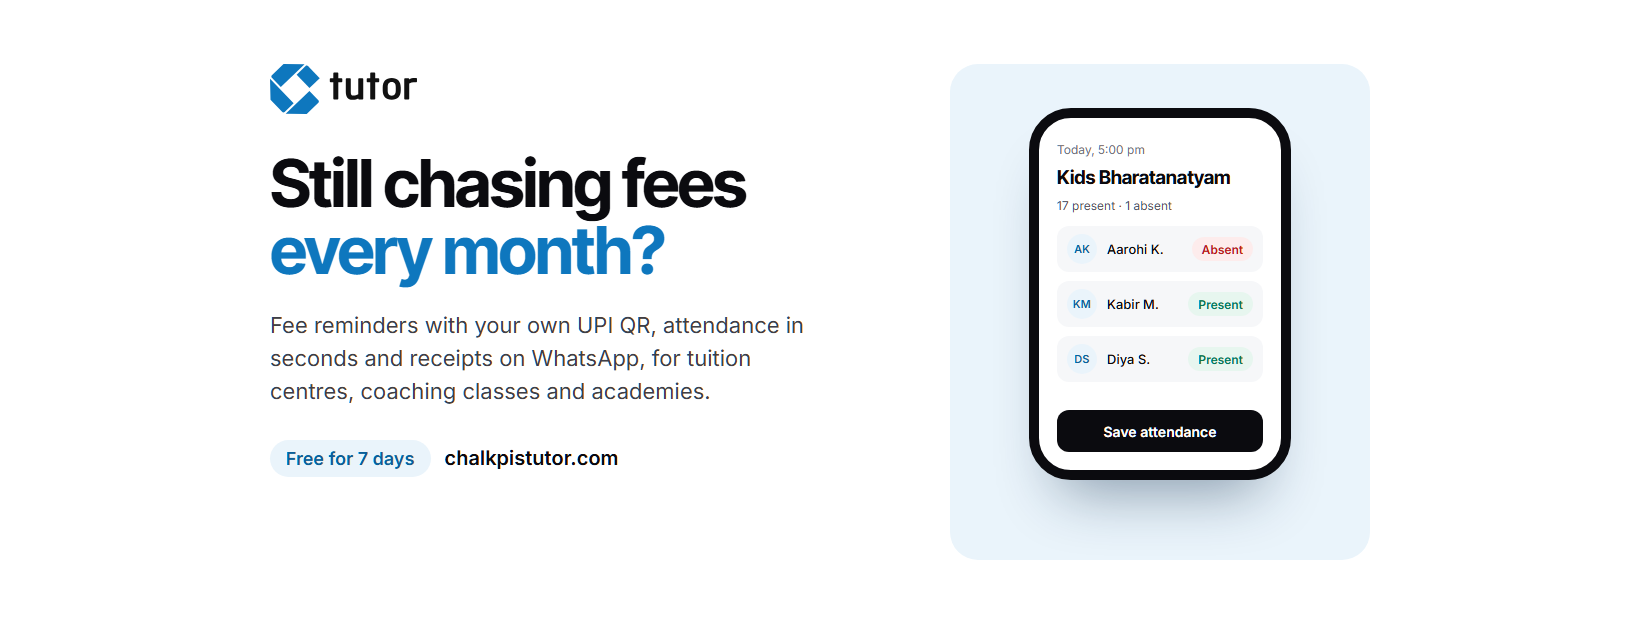
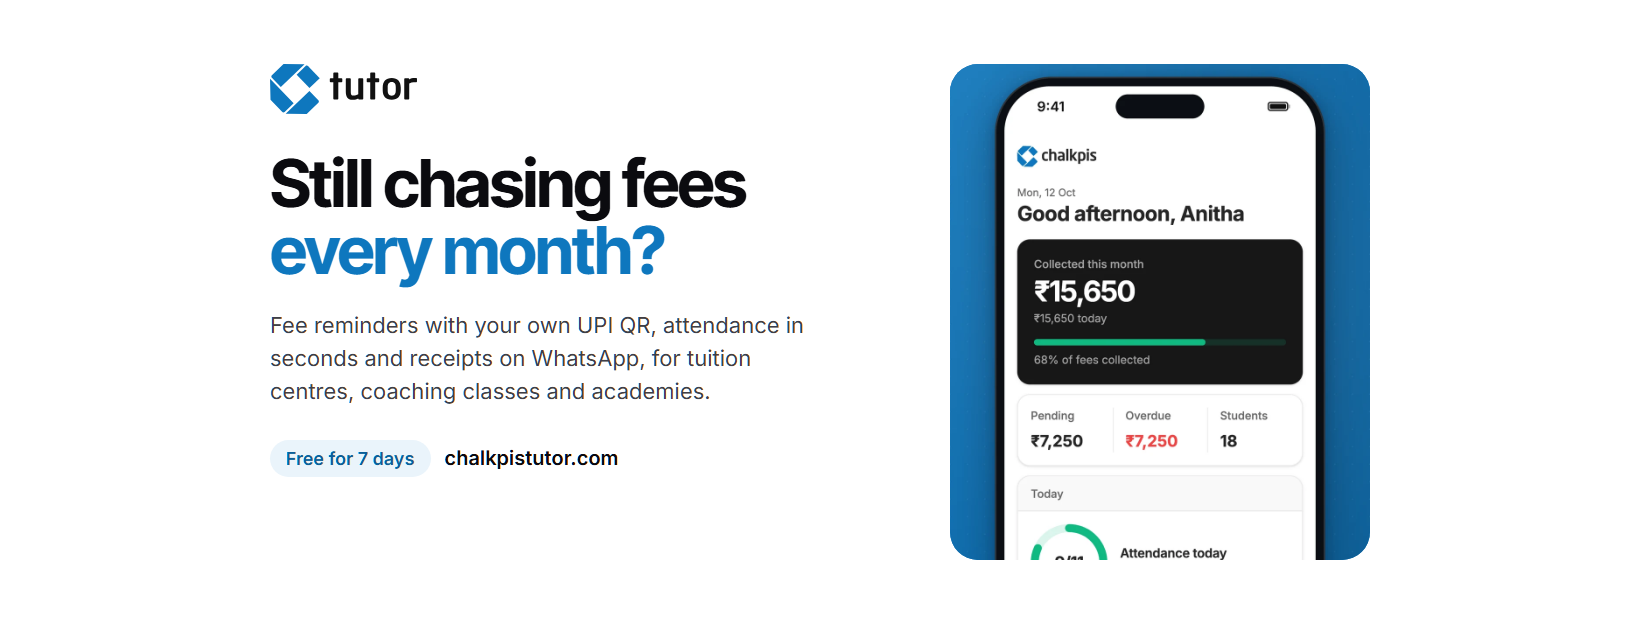
Hero, link preview and Facebook cover use the real app's Home screen instead of a drawn phone
The picture is cropped (not redrawn) from the App Store screenshot marketing/store/appstore/6.9/phone-02.png by
npm run images, at 2x as public/app/home-dashboard.webp. Home and the class pages show it beside the question.

Changed region(s): [[0.5598, 0.0913, 0.8396, 0.9135]]

diff --git a/website/scripts/og.html b/website/scripts/og.html
@@ -20,7 +20,8 @@ h1{margin-top:48px;font-family:'Inter Tight',sans-serif;font-weight:700;font-siz
 .lead{margin-top:24px;font-size:22px;line-height:1.5;color:#3F3F46;max-width:520px}
 .foot{margin-top:auto;display:flex;align-items:center;gap:14px;font-size:20px;font-weight:600}
 .foot .pill{background:#EAF4FB;color:#0A5F99;border-radius:999px;padding:8px 16px;font-size:18px}
-.art{width:440px;flex:none;background:#EAF4FB;border-radius:28px;position:relative}
+.art{width:440px;flex:none;border-radius:28px;overflow:hidden;background:#0E77BE}
+.art img{display:block;width:100%;height:100%;object-fit:cover;object-position:center top}
 .phone{position:absolute;left:50%;top:36px;transform:translateX(-50%);width:262px;height:372px;background:#FFFFFF;border:10px solid #0B0B0F;border-radius:42px;padding:24px 18px 18px;display:flex;flex-direction:column;gap:9px;box-shadow:0 40px 60px -30px rgba(11,40,70,0.45)}
 .when{font-size:12px;color:#71717A}
 .batch{font-family:'Inter Tight',sans-serif;font-weight:700;font-size:19px;letter-spacing:-0.01em}
@@ -43,8 +44,6 @@ html.cover .lead{max-width:560px}
 /* the Page's profile picture covers the bottom-left corner on desktop */
 html.cover .foot{margin-top:32px}
 html.cover .art{width:420px}
-html.cover .toast{display:none}
-html.cover .phone{top:44px}
 </style>
 <script>if (location.search.indexOf('cover') >= 0) document.documentElement.classList.add('cover');</script>
 </head>
@@ -55,17 +54,6 @@ html.cover .phone{top:44px}
 <p class="lead">Fee reminders with your own UPI QR, attendance in seconds and receipts on WhatsApp, for tuition centres, coaching classes and academies.</p>
 <div class="foot"><span class="pill">Free for 7 days</span><span>chalkpistutor.com</span></div>
 </div>
-<div class="art">
-<div class="phone">
-<p class="when">Today, 5:00 pm</p>
-<p class="batch">Kids Bharatanatyam</p>
-<p class="count">17 present · 1 absent</p>
-<div class="r"><span class="av">AK</span><span class="n">Aarohi K.</span><span class="pl no">Absent</span></div>
-<div class="r"><span class="av">KM</span><span class="n">Kabir M.</span><span class="pl ok">Present</span></div>
-<div class="r"><span class="av">DS</span><span class="n">Diya S.</span><span class="pl ok">Present</span></div>
-<div class="save">Save attendance</div>
-</div>
-<div class="toast"><span class="ic"><svg width="16" height="16" viewBox="0 0 24 24"><path fill="#25D366" d="M17.472 14.382c-.297-.149-1.758-.867-2.03-.967-.273-.099-.471-.148-.67.15-.197.297-.767.966-.94 1.164-.173.199-.347.223-.644.075-.297-.15-1.255-.463-2.39-1.475-.883-.788-1.48-1.761-1.653-2.059-.173-.297-.018-.458.13-.606.134-.133.298-.347.446-.52.149-.174.198-.298.298-.497.099-.198.05-.371-.025-.52-.075-.149-.669-1.612-.916-2.207-.242-.579-.487-.5-.669-.51-.173-.008-.371-.01-.57-.01-.198 0-.52.074-.792.372-.272.297-1.04 1.016-1.04 2.479 0 1.462 1.065 2.875 1.213 3.074.149.198 2.096 3.2 5.077 4.487.709.306 1.262.489 1.694.625.712.227 1.36.195 1.871.118.571-.085 1.758-.719 2.006-1.413.248-.694.248-1.289.173-1.413-.074-.124-.272-.198-.57-.347m-5.421 7.403h-.004a9.87 9.87 0 01-5.031-1.378l-.361-.214-3.741.982.998-3.648-.235-.374a9.86 9.86 0 01-1.51-5.26c.001-5.45 4.436-9.884 9.888-9.884 2.64 0 5.122 1.03 6.988 2.898a9.825 9.825 0 012.893 6.994c-.003 5.45-4.437 9.884-9.885 9.884m8.413-18.297A11.815 11.815 0 0012.05 0C5.495 0 .16 5.335.157 11.892c0 2.096.547 4.142 1.588 5.945L.057 24l6.305-1.654a11.882 11.882 0 005.683 1.448h.005c6.554 0 11.89-5.335 11.893-11.893a11.821 11.821 0 00-3.48-8.413Z"/></svg></span><span><strong>Aarohi's parent alerted</strong><span class="s">On WhatsApp, 5:02 pm</span></span></div>
-</div>
+<div class="art"><img src="../public/app/home-dashboard.webp" alt=""></div>
 </body>
 </html>
